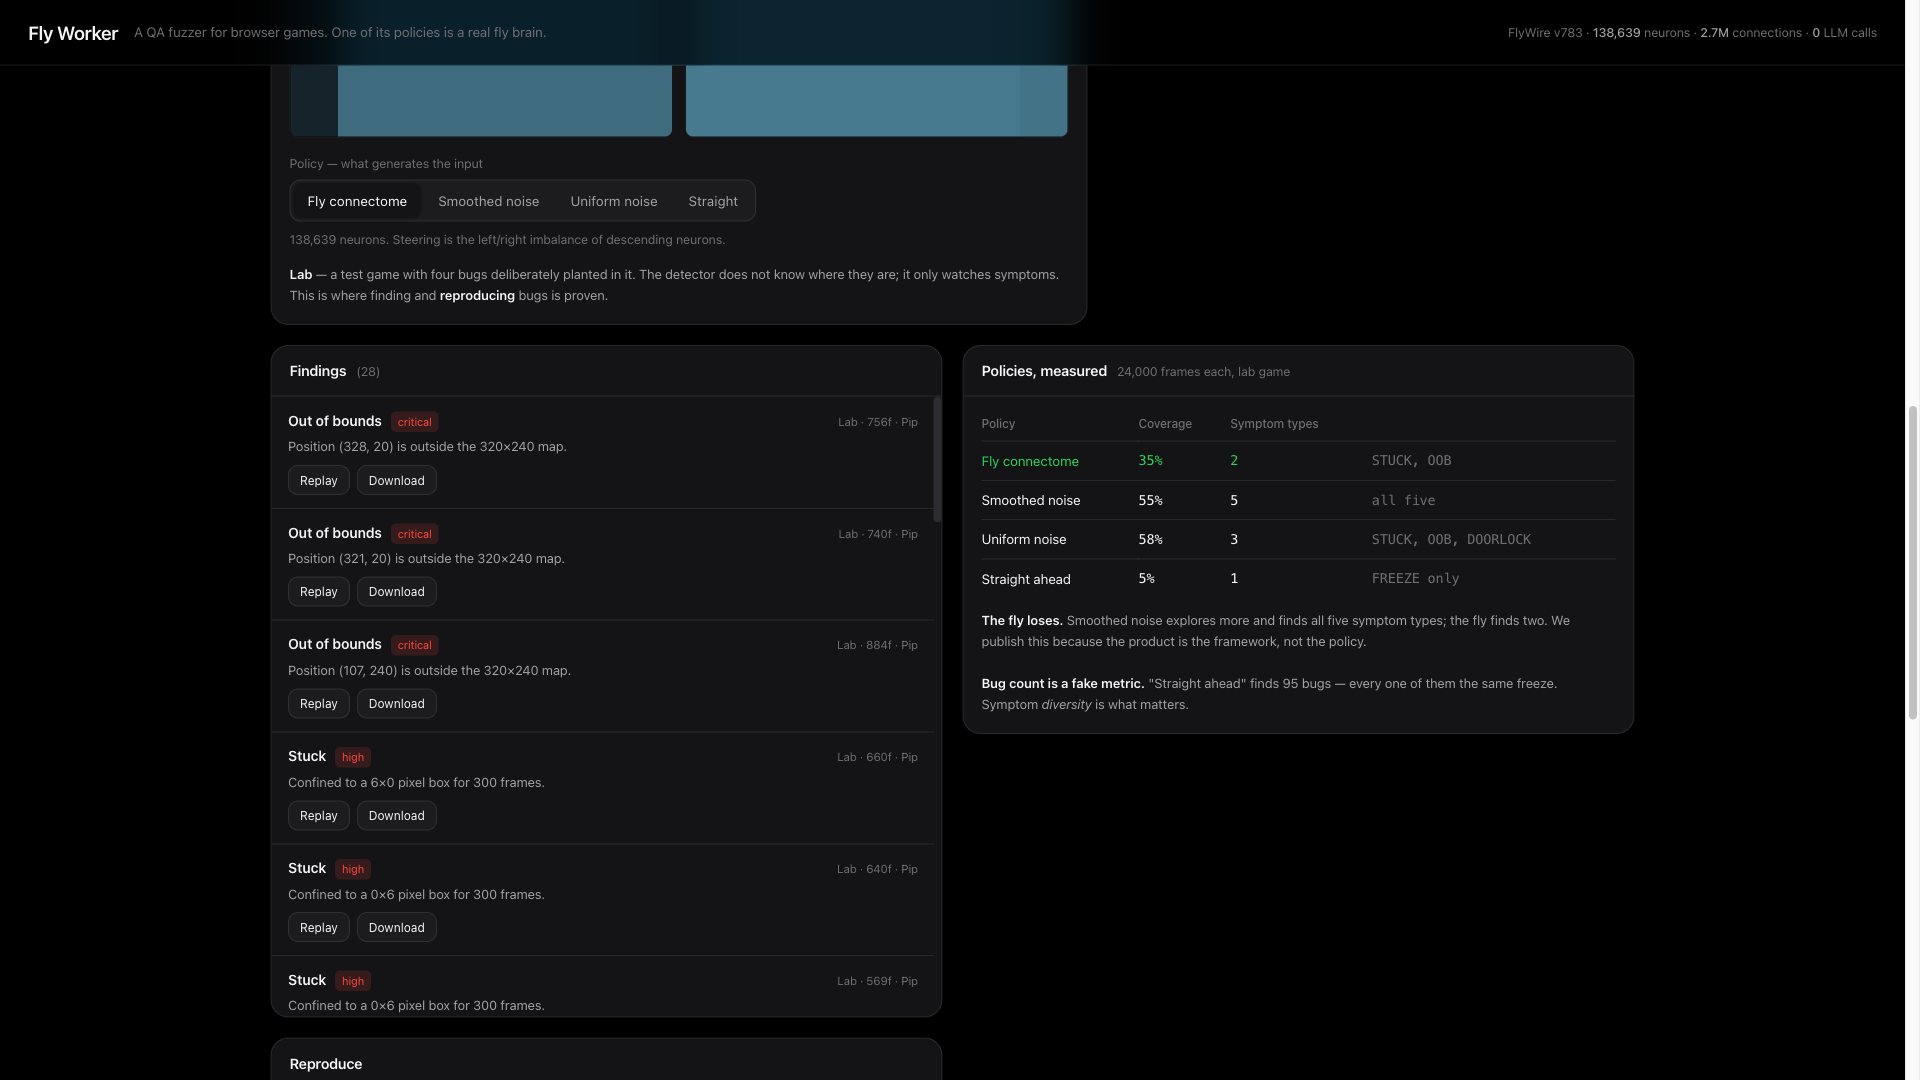
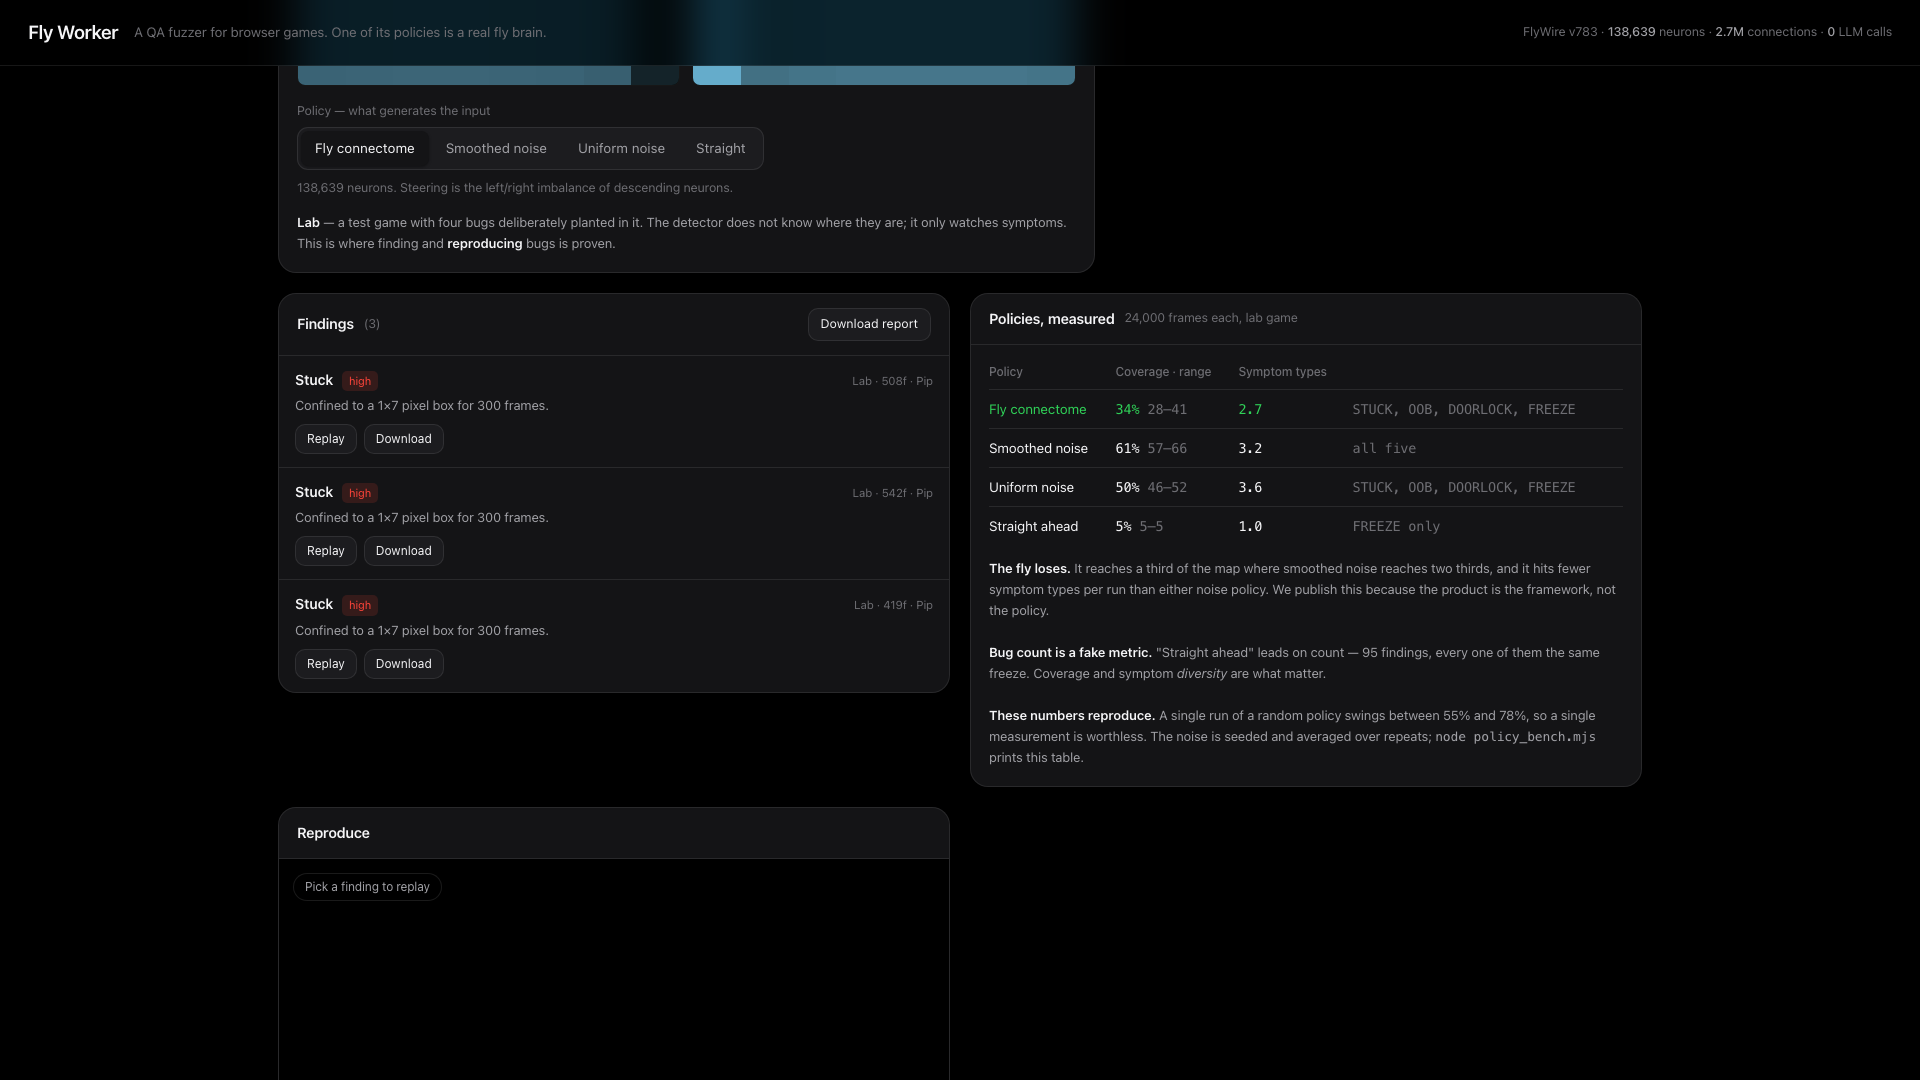
제출 자료의 숫자를 재측정값으로 맞춘다
ai설명.txt 와 대표이미지에 옛 표(35%/2종, 55%/5종)가 그대로 남아 있었다.
제출 문서와 사이트가 다른 숫자를 말하는 상태였다.

  ai설명 498자 — 34%·2.7종 vs 61%·3.2종, "탐색률과 증상 다양성"
  대표이미지 — 범위(28–41 등)까지 싣고 "seeded · averaged over repeats"
  근무지 카드 "세 곳" → "네 곳, 그리고 당신의 게임"
  스크린샷 4번 재촬영 (라이브에서 새 표 + Download report 버튼)

diff --git a/submit/제출가이드.md b/submit/제출가이드.md
@@ -22,7 +22,7 @@ Fly Worker — 정책을 갈아끼우는 브라우저 게임 QA 퍼저
 > 탈출이 여러 건으로 올라가던 것을 고쳤고, 한 번만 돌려 낸 난수 측정값도 시드 고정
 > 평균으로 다시 냈습니다. 그 과정은 LIMITATIONS.md §1.9 에 적어뒀습니다.
 
-## 4. AI 활용 방식 및 결과 (499자 / 500자)
+## 4. AI 활용 방식 및 결과 (500자 / 500자)
 `submit/ai설명.txt` 내용을 그대로 붙여넣기
 
 ## 5. 사용 AI툴 및 기술 스택
@@ -75,5 +75,5 @@ https://kimhyunwoo-flyworker.static.hf.space/
 - [ ] 서비스 링크 접속 확인 (심사 기간 내내 유지되어야 함)
 - [ ] 스크린샷 5장 업로드
 - [ ] 「Yours」에서 Sample 눌러 붙는지 한 번 확인
-- [ ] 499자 설명 붙여넣기
+- [ ] 500자 설명 붙여넣기
 - [ ] **「과제 제출하기」 클릭** (임시저장 ✗)
